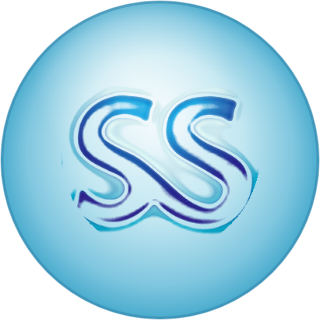
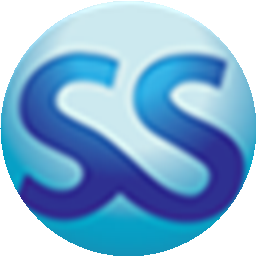
Restaura o SS original (navy correto) e o fundo do hero
- ss-orb.png volta ao recorte original do logo: o "SS" navy escuro e nítido,
  como na marca. O reprocessamento anterior lavava a cor e borrava as letras.
- Hero: fundo volta à imagem que existia (og-cover / rodovia), com Ken Burns.
  O painel do lado segue com a foto de gestão de frota.

diff --git a/src/routes/index.tsx b/src/routes/index.tsx
@@ -70,9 +70,9 @@ function Home() {
 function Hero() {
   return (
     <section className="relative overflow-hidden bg-gradient-hero text-white">
-      <div className="absolute inset-0">
-        {MEDIA.heroVideo && <Backdrop image={FOTOS.heroPainel} video={MEDIA.heroVideo} />}
-        <div className="absolute inset-0 bg-gradient-to-b from-[oklch(0.18_0.06_260)] via-[oklch(0.18_0.06_260)] to-[oklch(0.16_0.05_260)]" />
+      <div className="absolute inset-0 opacity-40">
+        <Backdrop image="/og-cover.jpg" video={MEDIA.heroVideo} />
+        <div className="absolute inset-0 bg-gradient-to-b from-[oklch(0.18_0.06_260)]/70 via-[oklch(0.18_0.06_260)]/50 to-[oklch(0.18_0.06_260)]" />
       </div>
       <div className="relative mx-auto grid max-w-7xl gap-16 px-6 pt-20 pb-28 lg:grid-cols-[1.2fr_0.8fr] lg:pt-28 lg:pb-36">
         <div>
